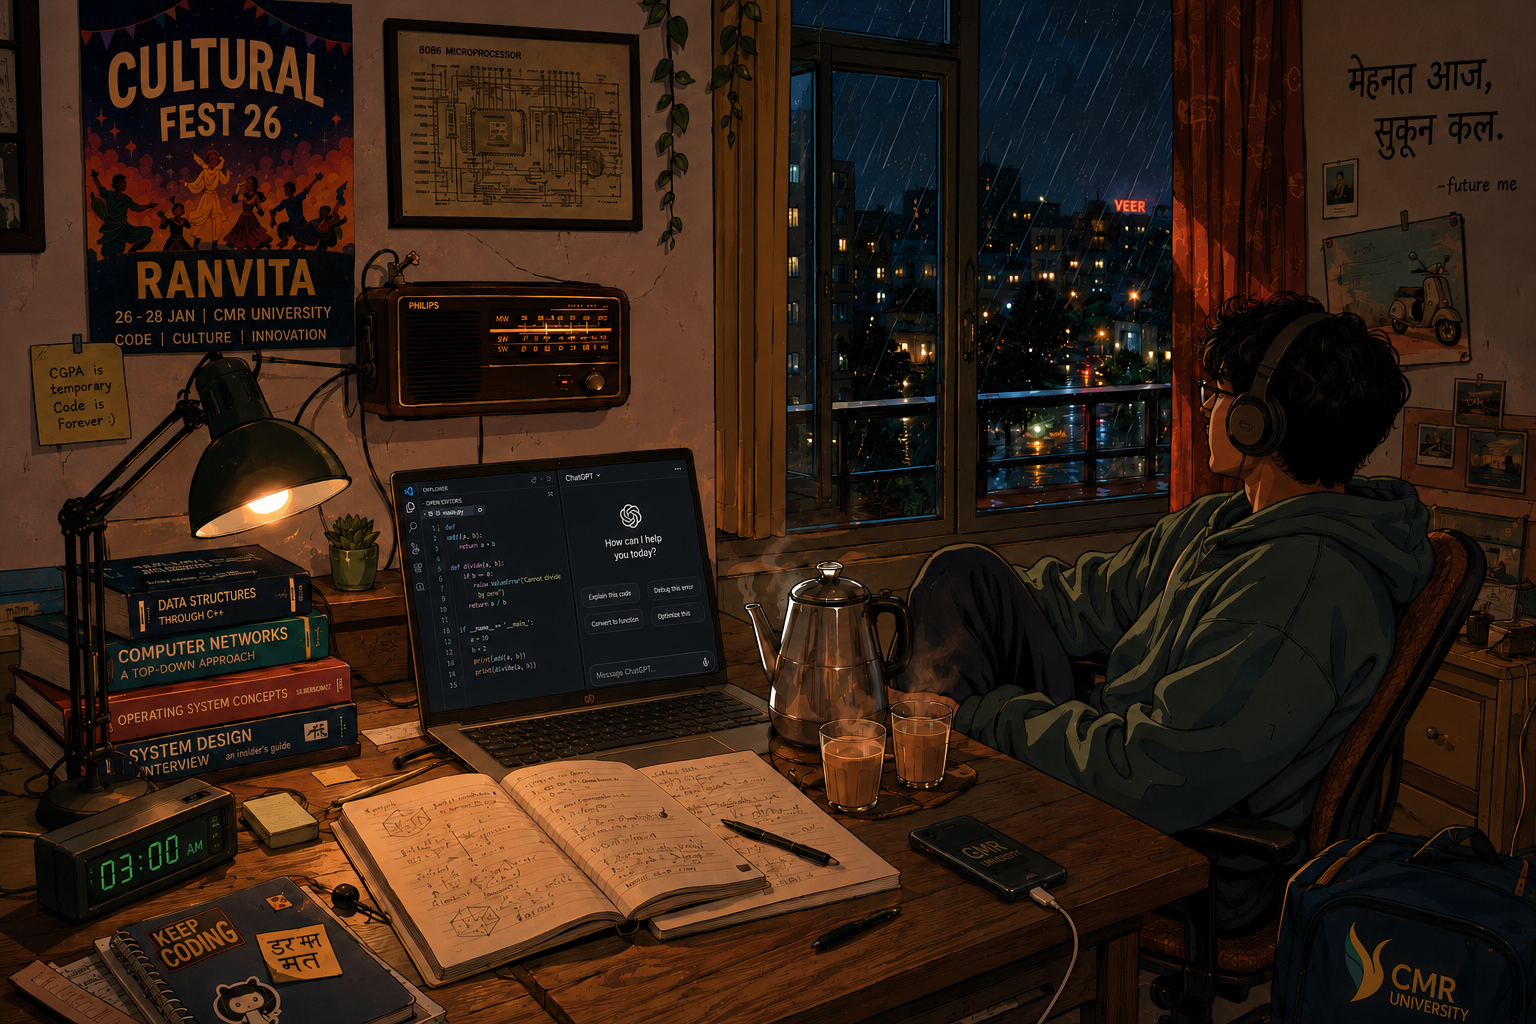
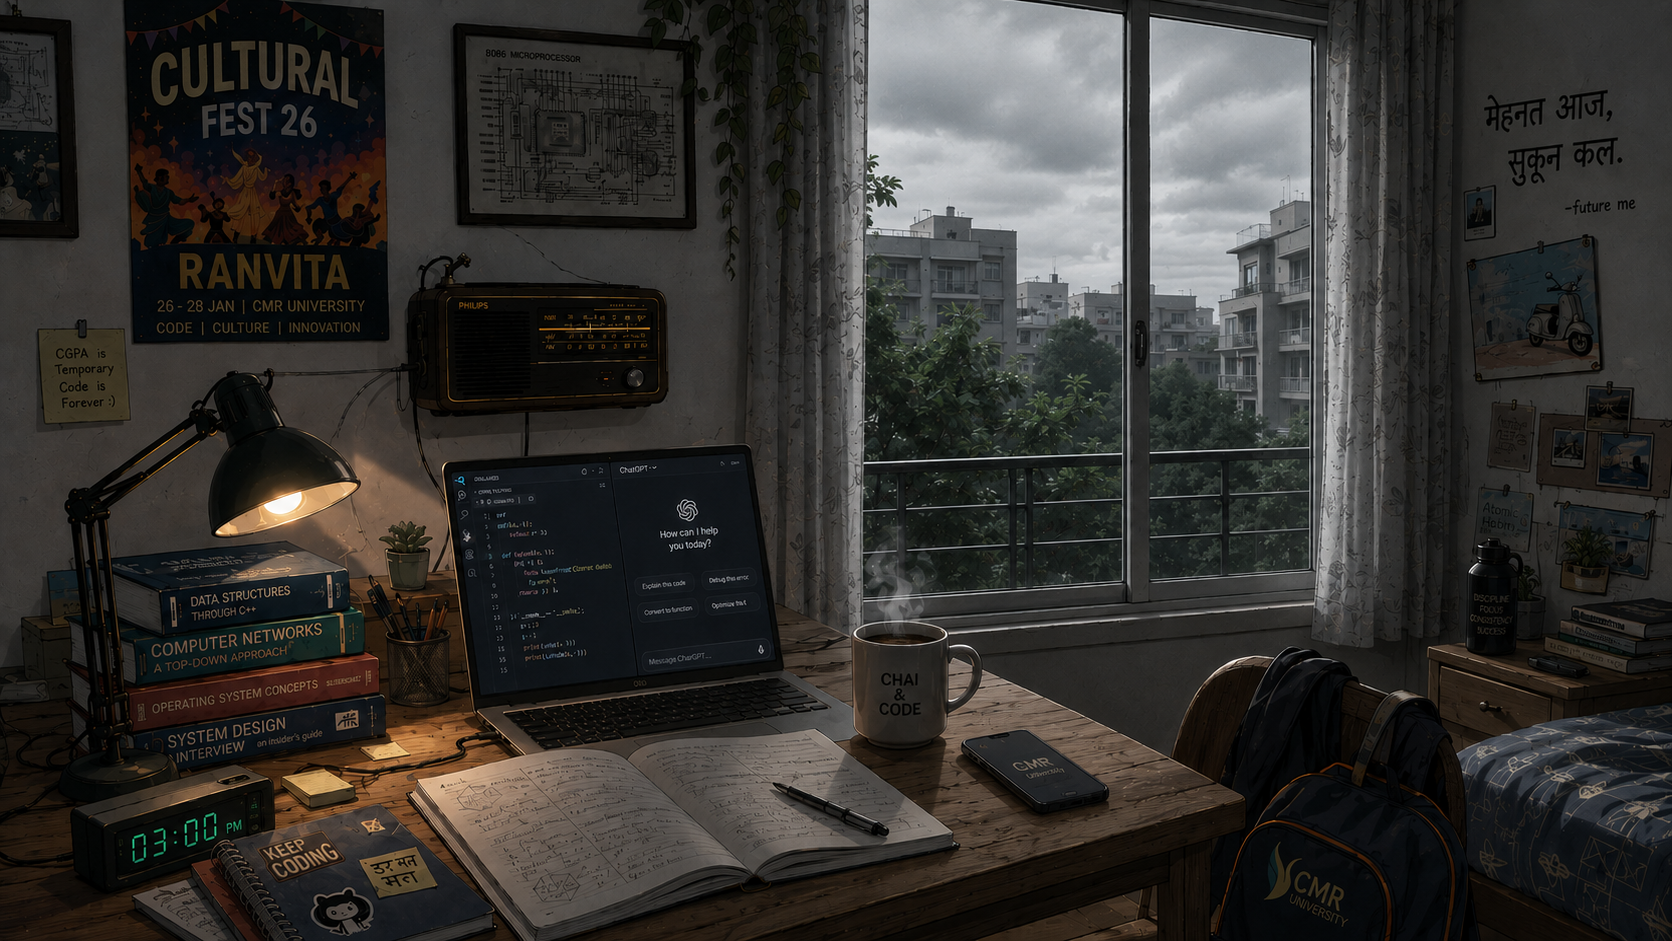
Make cloudy/overcast image the default background

diff --git a/index.html b/index.html
@@ -162,6 +162,6 @@
 
   <script src="https://www.youtube.com/iframe_api"></script>
   <script src="playlists.js?v=20"></script>
-  <script src="script.js?v=20"></script>
+  <script src="script.js?v=21"></script>
 </body>
 </html>
